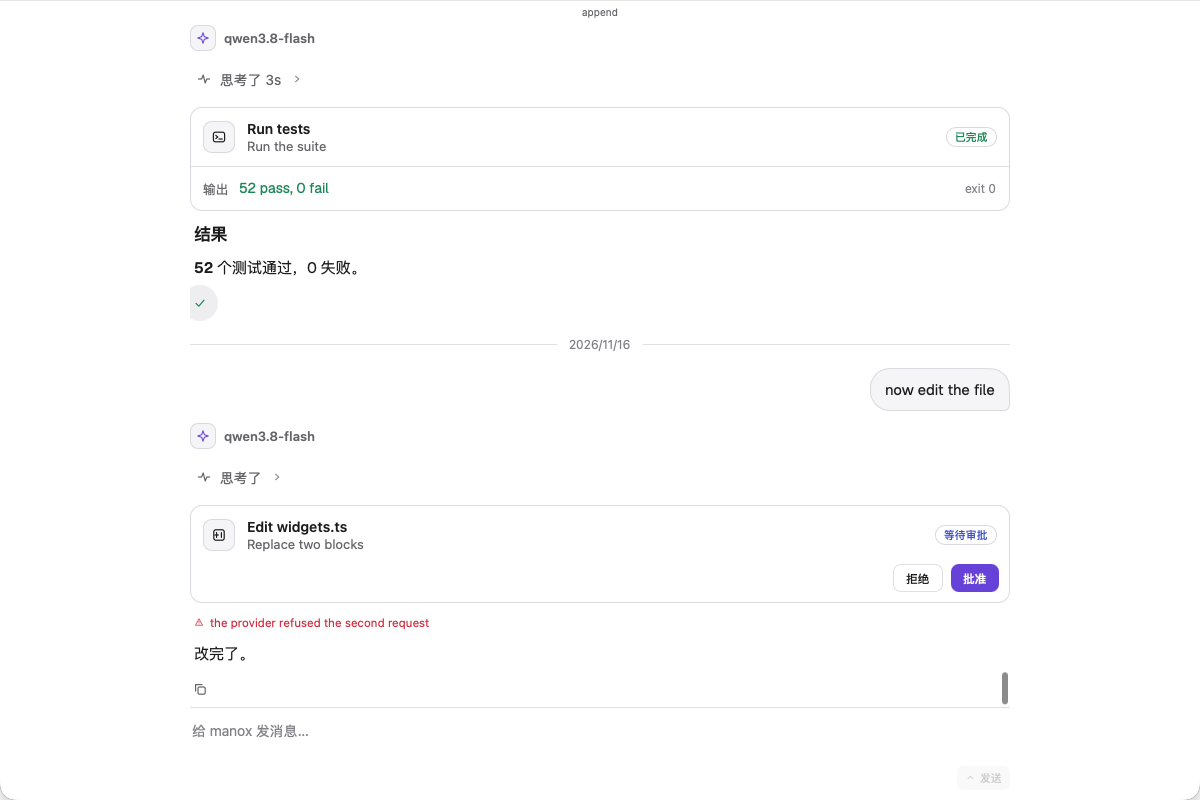
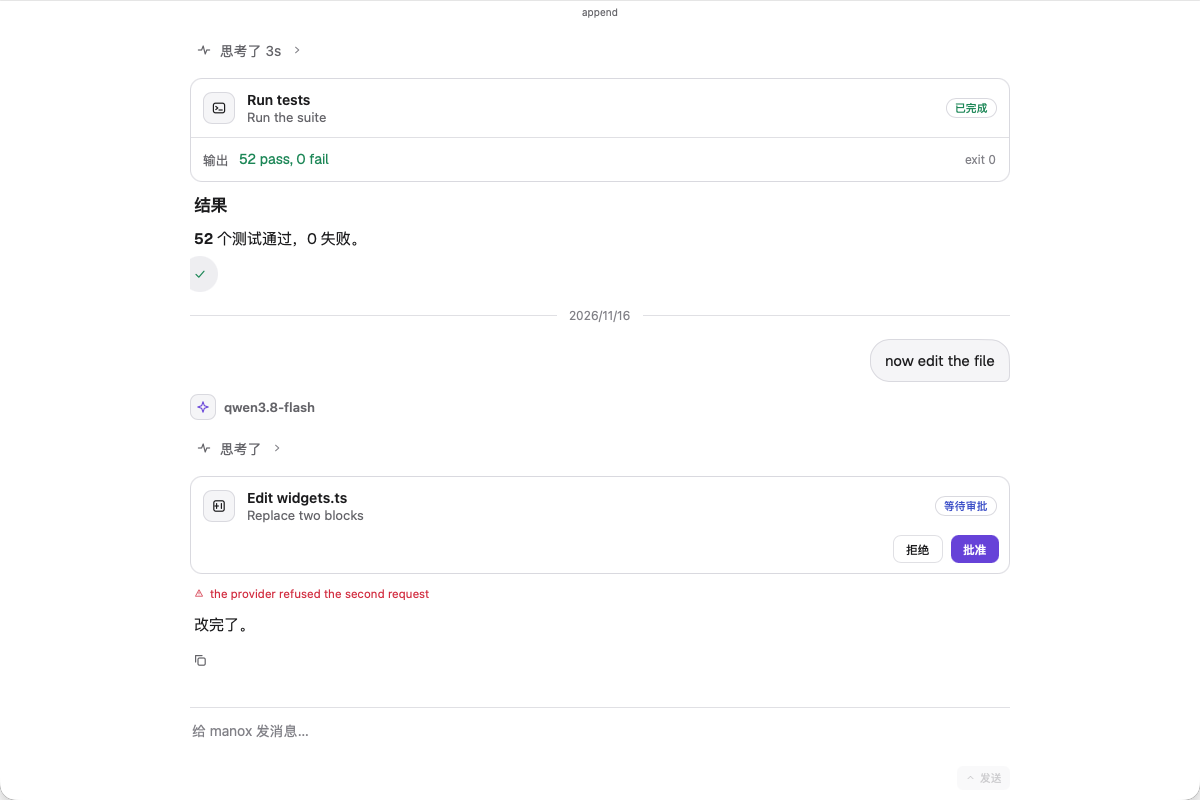
fix(manox): the transcript renders the journal's order, without a scrollbar
The transcript was a virtualized List with a single estimated row height,
and the rows here range from a 26pt header to a tool card several hundred
points tall: on a real conversation the mounted window skipped and
repeated rows, so what reached the screen did not match the journal, and
scrolling showed blank bands until the heights settled. The conversation
is now a plain Scroll of the projected rows (Each keyed by row id): every
row mounts in projection order, and scrolling no longer remounts anything.
The scrollbar is off — the transcript has no chrome of its own.

The projection is cached by the completed-turns array's identity and the
metrics state: a streaming delta rebuilds only the active turn's tail,
where every token used to rebuild every turn's rows (and the scroll handler
re-rendered the whole view on every event). The model label is resolved
once per ref.

diff --git a/app/modules/manox/conversation.tsx b/app/modules/manox/conversation.tsx
@@ -1,4 +1,4 @@
-import { Clipboard, effect, List, type ListRef, signal, Text, token, View } from "nsh";
+import { Clipboard, effect, Scroll, type ViewRef, signal, Text, token, View } from "nsh";
 import { Input } from "nsh/base";
 import { K, t } from "../../ui/i18n";
 import { Glyph, motionStyle, type GlyphName } from "../../ui/ui";
@@ -82,6 +82,18 @@ interface DisplayTurn {
 /** The reply's model name: the turn's own selection first, else the thread's
  * configured model ref, resolved against the pi catalogue (the gallery shows
  * the model beside the assistant's avatar). */
+const modelLabels = new Map<string, string>();
+
+function labelForRef(ref: string): string {
+  const cached = modelLabels.get(ref);
+  if (cached !== undefined) return cached;
+  const id = ref.includes("/") ? ref.slice(ref.lastIndexOf("/") + 1) : ref;
+  const row = usableModels().find((candidate) => candidate.model.id === id);
+  const label = row ? modelLabel(row) : id;
+  modelLabels.set(ref, label);
+  return label;
+}
+
 function modelLabelOf(turn: DisplayTurn, threadId: string): string {
   const explicit = turn.message.model?.id;
   let ref = typeof explicit === "string" ? explicit : "";
@@ -90,10 +102,7 @@ function modelLabelOf(turn: DisplayTurn, threadId: string): string {
     const value = state?.config?.values?.["model"] ?? state?.config?.schema?.properties?.["model"]?.default;
     if (typeof value === "string") ref = value;
   }
-  if (!ref) return "";
-  const id = ref.includes("/") ? ref.slice(ref.lastIndexOf("/") + 1) : ref;
-  const row = usableModels().find((candidate) => candidate.model.id === id);
-  return row ? modelLabel(row) : id;
+  return ref ? labelForRef(ref) : "";
 }
 
 const dayKey = (at: number) => {
@@ -110,65 +119,108 @@ function turnText(parts: ResponsePart[]): string {
     .trim();
 }
 
-/** Flattens the chat's turns and their parts into keyed rows, inserting the
- * day line wherever the timeline crosses midnight. */
-function rowsOf(chat: ChatState | null, chatId: string, threadId: string): Row[] {
-  if (!chat) return [];
+/** One turn's rows, carrying the day cursor across turns. */
+function projectTurn(
+  turn: DisplayTurn,
+  chatId: string,
+  threadId: string,
+  active: boolean,
+  lastDay: string | null,
+): { rows: Row[]; lastDay: string | null } {
+  const rows: Row[] = [];
+  const at = turn.startedAt ? Date.parse(turn.startedAt) : NaN;
+  if (Number.isFinite(at)) {
+    const day = dayKey(at);
+    if (day !== lastDay) {
+      lastDay = day;
+      rows.push({ kind: "day", id: `day:${day}`, at: turn.startedAt! });
+    }
+  }
+  const attachments = (turn.message.attachments ?? [])
+    .map((attachment) => {
+      const record = attachment as { name?: unknown; title?: unknown; uri?: unknown };
+      const value = record.name ?? record.title ?? record.uri;
+      return typeof value === "string" ? value : "";
+    })
+    .filter((name) => name.length > 0);
+  rows.push({ kind: "user", id: `user:${turn.id}`, text: turn.message.text, attachments });
+  if (turn.parts.length > 0) {
+    rows.push({ kind: "header", id: `header:${turn.id}`, turnId: turn.id, model: modelLabelOf(turn, threadId) });
+  }
+  const last = turn.parts.length - 1;
+  for (let index = 0; index < turn.parts.length; index += 1) {
+    const part = turn.parts[index];
+    if (!part) continue;
+    const partId = "id" in part && typeof part.id === "string" ? part.id : String(index);
+    // The settled run's durable clock (the metrics extension face). A part
+    // without a row predates the anchor or the kernel lacks the face — the
+    // label stays durationless rather than guessed.
+    const durationMs = part.kind === "reasoning" ? reasoningTimingOf(chatId, partId)?.durationMs : undefined;
+    rows.push({
+      kind: "part",
+      id: `part:${turn.id}:${partId}`,
+      chatId,
+      turnId: turn.id,
+      part,
+      streaming: active && index === last,
+      live: active,
+      durationMs,
+    });
+  }
+  if (!active) {
+    const text = turnText(turn.parts);
+    if (text.length > 0) rows.push({ kind: "actions", id: `actions:${turn.id}`, turnId: turn.id, text });
+  }
+  return { rows, lastDay };
+}
+
+/** The completed turns' rows, cached by the turns array's identity: streaming
+ * replaces the active turn per delta, the completed array only when a turn
+ * settles. Rebuilding every turn per token was the jank behind scrolling. */
+let cachedTurns: ChatState["turns"] | null = null;
+let cachedMetrics: unknown = null;
+let cachedRows: Row[] = [];
+let cachedLastDay: string | null = null;
+
+function projectCompleted(chat: ChatState, chatId: string, threadId: string): void {
+  const metrics = effectiveState<{ reasoningTimings?: unknown }>(metricsResource(chatId));
+  if (chat.turns === cachedTurns && metrics === cachedMetrics) return;
+  cachedTurns = chat.turns;
+  cachedMetrics = metrics;
   const rows: Row[] = [];
   let lastDay: string | null = null;
-  const project = (turn: DisplayTurn, active: boolean) => {
-    const at = turn.startedAt ? Date.parse(turn.startedAt) : NaN;
-    if (Number.isFinite(at)) {
-      const day = dayKey(at);
-      if (day !== lastDay) {
-        lastDay = day;
-        rows.push({ kind: "day", id: `day:${day}`, at: turn.startedAt! });
-      }
-    }
-    const attachments = (turn.message.attachments ?? [])
-      .map((attachment) => {
-        const record = attachment as { name?: unknown; title?: unknown; uri?: unknown };
-        const value = record.name ?? record.title ?? record.uri;
-        return typeof value === "string" ? value : "";
-      })
-      .filter((name) => name.length > 0);
-    rows.push({ kind: "user", id: `user:${turn.id}`, text: turn.message.text, attachments });
-    if (turn.parts.length > 0) {
-      rows.push({ kind: "header", id: `header:${turn.id}`, turnId: turn.id, model: modelLabelOf(turn, threadId) });
-    }
-    const last = turn.parts.length - 1;
-    for (let index = 0; index < turn.parts.length; index += 1) {
-      const part = turn.parts[index];
-      if (!part) continue;
-      const partId = "id" in part && typeof part.id === "string" ? part.id : String(index);
-      // The settled run's durable clock (the metrics extension face). A part
-      // without a row predates the anchor or the kernel lacks the face — the
-      // label stays durationless rather than guessed.
-      const durationMs = part.kind === "reasoning" ? reasoningTimingOf(chatId, partId)?.durationMs : undefined;
-      rows.push({
-        kind: "part",
-        id: `part:${turn.id}:${partId}`,
-        chatId,
-        turnId: turn.id,
-        part,
-        streaming: active && index === last,
-        live: active,
-        durationMs,
-      });
-    }
-    if (!active) {
-      const text = turnText(turn.parts);
-      if (text.length > 0) rows.push({ kind: "actions", id: `actions:${turn.id}`, turnId: turn.id, text });
-    }
-  };
   for (const turn of chat.turns) {
-    project({ id: turn.id, startedAt: turn.startedAt, message: turn.message, parts: turn.responseParts }, false);
+    const projected = projectTurn(
+      { id: turn.id, startedAt: turn.startedAt, message: turn.message, parts: turn.responseParts },
+      chatId,
+      threadId,
+      false,
+      lastDay,
+    );
+    rows.push(...projected.rows);
+    lastDay = projected.lastDay;
   }
-  if (chat.activeTurn) {
-    const active = chat.activeTurn;
-    project({ id: active.id, startedAt: active.startedAt, message: active.message, parts: active.responseParts }, true);
-  }
-  return rows;
+  cachedRows = rows;
+  cachedLastDay = lastDay;
+}
+
+/** Flattens the chat into keyed rows: the cached completed turns, then the
+ * active turn's rows (only that tail is rebuilt while a turn streams). */
+function rowsOf(chat: ChatState | null, chatId: string, threadId: string): Row[] {
+  if (!chat) return [];
+  projectCompleted(chat, chatId, threadId);
+  const active = chat.activeTurn;
+  if (!active) return cachedRows;
+  return [
+    ...cachedRows,
+    ...projectTurn(
+      { id: active.id, startedAt: active.startedAt, message: active.message, parts: active.responseParts },
+      chatId,
+      threadId,
+      true,
+      cachedLastDay,
+    ).rows,
+  ];
 }
 
 // --- parts ------------------------------------------------------------------
@@ -557,45 +609,36 @@ export function ManoxChatBody(props: { id: string }) {
   const empty = () => rows().length === 0;
   const copied = signal<string | null>(null);
 
-  let list: ListRef | undefined;
+  let bottom: ViewRef | undefined;
   /** Whether the reader is at the bottom: the jump button hides there. The
-   * list itself holds the position while new parts stream in. */
+   * scroll view holds its position while new parts stream in. */
   const following = signal(true);
+  const revealEnd = (animated = true) => {
+    queueMicrotask(() => bottom?.reveal({ vertical: "end", animated }));
+  };
   const toEnd = (animated = true) => {
     following.set(true);
-    // `scrollToIndex` resolves against the list's current sizes, where
-    // `scrollToEnd` can stop short of a row whose height was an estimate.
-    const jump = () => {
-      const last = rows().length - 1;
-      if (last >= 0) list?.scrollToIndex({ index: last, viewPosition: 1, animated });
-    };
-    queueMicrotask(jump);
-    // The heights settle after the data change; a couple of later tries
-    // land on the true end.
-    setTimeout(() => following() && jump(), 150);
-    setTimeout(() => following() && jump(), 600);
+    revealEnd(animated);
+    // The layout settles after the data change; a later try lands on the
+    // true end (the same reason the list needed retries).
+    setTimeout(() => following() && revealEnd(animated), 150);
   };
-  // A freshly opened chat reads from its end; after that the list follows
-  // the stream only while it is already at the bottom. `onScroll` keeps
-  // `following` honest for every scroll (a wheel included), and no scroll is
-  // issued while the reader is above the end.
+  // A freshly opened chat reads from its end; after that the view follows
+  // the stream only while it is already at the bottom.
   let opened = false;
   let queued = false;
   effect(() => {
     const count = rows().length;
-    if (opened && !following()) return;
     if (!opened) {
       opened = true;
-      toEnd(false);
+      queueMicrotask(() => revealEnd(false));
       return;
     }
-    if (count === 0 || queued) return;
+    if (count === 0 || !following() || queued) return;
     queued = true;
     queueMicrotask(() => {
       queued = false;
-      if (!following()) return;
-      const last = rows().length - 1;
-      if (last >= 0) list?.scrollToIndex({ index: last, viewPosition: 1, animated: true });
+      if (following()) revealEnd(true);
     });
   });
 
@@ -627,49 +670,48 @@ export function ManoxChatBody(props: { id: string }) {
         }
       >
         <View class="flex-1" style={{ minHeight: 0, width: "100%", maxWidth: 820, alignSelf: "center" }}>
-          <List
+          <Scroll
             testID="manox-transcript"
-            ref={(node) => (list = node)}
-            each={rows()}
-            keyExtractor={(row) => row.id}
-            estimatedItemSize={90}
+            scrollbar={false}
             style={{ flex: 1 }}
-            contentStyle={{
-              paddingTop: 16,
-              paddingBottom: 16,
-              gap: 12,
-            }}
+            contentStyle={{ paddingTop: 16, paddingBottom: 16 }}
             onScroll={(event) => {
-              following.set(event.offset.y + event.size.height >= event.contentSize.height - 40);
+              const atBottom = event.offset.y + event.size.height >= event.contentSize.height - 40;
+              if (following() !== atBottom) following.set(atBottom);
             }}
           >
-            {(row) => {
-              const current = () => row();
-              switch (current().kind) {
-                case "day":
-                  return <DaySeparator label={(current() as Extract<Row, { kind: "day" }>).at} />;
-                case "user": {
-                  const user = current() as Extract<Row, { kind: "user" }>;
-                  return <UserMessage text={user.text} attachments={user.attachments} />;
-                }
-                case "header": {
-                  const header = current() as Extract<Row, { kind: "header" }>;
-                  return <AssistantHeader model={header.model} />;
-                }
-                case "part":
-                  return <PartRow row={current() as Extract<Row, { kind: "part" }>} />;
-                case "actions":
-                  return (
-                    <ActionRow
-                      testID={`chat-actions:${(current() as Extract<Row, { kind: "actions" }>).turnId}`}
-                      actions={actions(current() as Extract<Row, { kind: "actions" }>)}
-                    />
-                  );
-                default:
-                  return null;
-              }
-            }}
-          </List>
+            <View style={{ gap: 12 }}>
+              <Each of={rows()} key={(row) => row.id}>
+                {(row) => {
+                  const current = () => row();
+                  switch (current().kind) {
+                    case "day":
+                      return <DaySeparator label={(current() as Extract<Row, { kind: "day" }>).at} />;
+                    case "user": {
+                      const user = current() as Extract<Row, { kind: "user" }>;
+                      return <UserMessage text={user.text} attachments={user.attachments} />;
+                    }
+                    case "header": {
+                      const header = current() as Extract<Row, { kind: "header" }>;
+                      return <AssistantHeader model={header.model} />;
+                    }
+                    case "part":
+                      return <PartRow row={current() as Extract<Row, { kind: "part" }>} />;
+                    case "actions":
+                      return (
+                        <ActionRow
+                          testID={`chat-actions:${(current() as Extract<Row, { kind: "actions" }>).turnId}`}
+                          actions={actions(current() as Extract<Row, { kind: "actions" }>)}
+                        />
+                      );
+                    default:
+                      return null;
+                  }
+                }}
+              </Each>
+              <View ref={(node) => (bottom = node)} style={{ height: 1 }} />
+            </View>
+          </Scroll>
           <If when={!following()}>
             <JumpToLatest label={t(K.manox.jumpLatest)} streaming={streaming()} onPress={() => toEnd()} />
           </If>

diff --git a/app/tests/manox-conversation.ui.test.tsx b/app/tests/manox-conversation.ui.test.tsx
@@ -9,16 +9,6 @@ async function shot(app: { screenshot: (path?: string | null) => Promise<Uint8Ar
   }
 }
 
-/** Whether this run draws the app (a screenshot exists only on a real target). */
-async function drawsTheApp(app: any): Promise<boolean> {
-  try {
-    const shot = await app.screenshot();
-    return shot.length > 0;
-  } catch {
-    return false;
-  }
-}
-
 // The gallery shapes over a seeded AHP chat: the thinking collapse, the tool
 // card (a terminal result's preview and exit code), the day line, an error
 // line, the reply's copy action, and the list's follow behavior.
@@ -77,22 +67,16 @@ test("a reply's copy action reports the copy", async () => {
 
 test("a reader scrolled up stays put when the chat grows", async () => {
   const app = await open("../fixtures/manox-conversation.tsx", { width: 1200, height: 800 });
-  const drawn = await drawsTheApp(app);
   await app.waitFor("id:manox-transcript");
   await app.waitFor("text:filler-40");
   // Scroll up into the history, then grow the chat from the fixture.
   await app.scroll("id:manox-transcript", -1200);
   await app.waitFor("id:chat-jump-latest");
-  const top = () => app.texts().find((text) => /^filler-\d+$/.test(text)) ?? "";
-  const before = top();
-  expect(before.length > 0).toBe(true);
   await app.press("id:fixture-append");
   await app.wait(300);
-  // On a real host (where the list virtualizes and scrolling is real) the
-  // reader did not get dragged to the new bottom.
-  if (drawn) expect(app.shows("text:extra reply 1")).toBe(false);
-  // The jump control returns the reader to the follow lane (it hides when
-  // the list is following again), and the new bottom is reachable.
+  // The reader was not dragged to the new bottom: the jump control is still
+  // up (it only hides when the view follows the stream again).
+  expect(app.shows("id:chat-jump-latest")).toBe(true);
   await app.press("id:chat-jump-latest");
   await app.waitUntil(() => !app.shows("id:chat-jump-latest"), { timeout: 10000 });
 });
